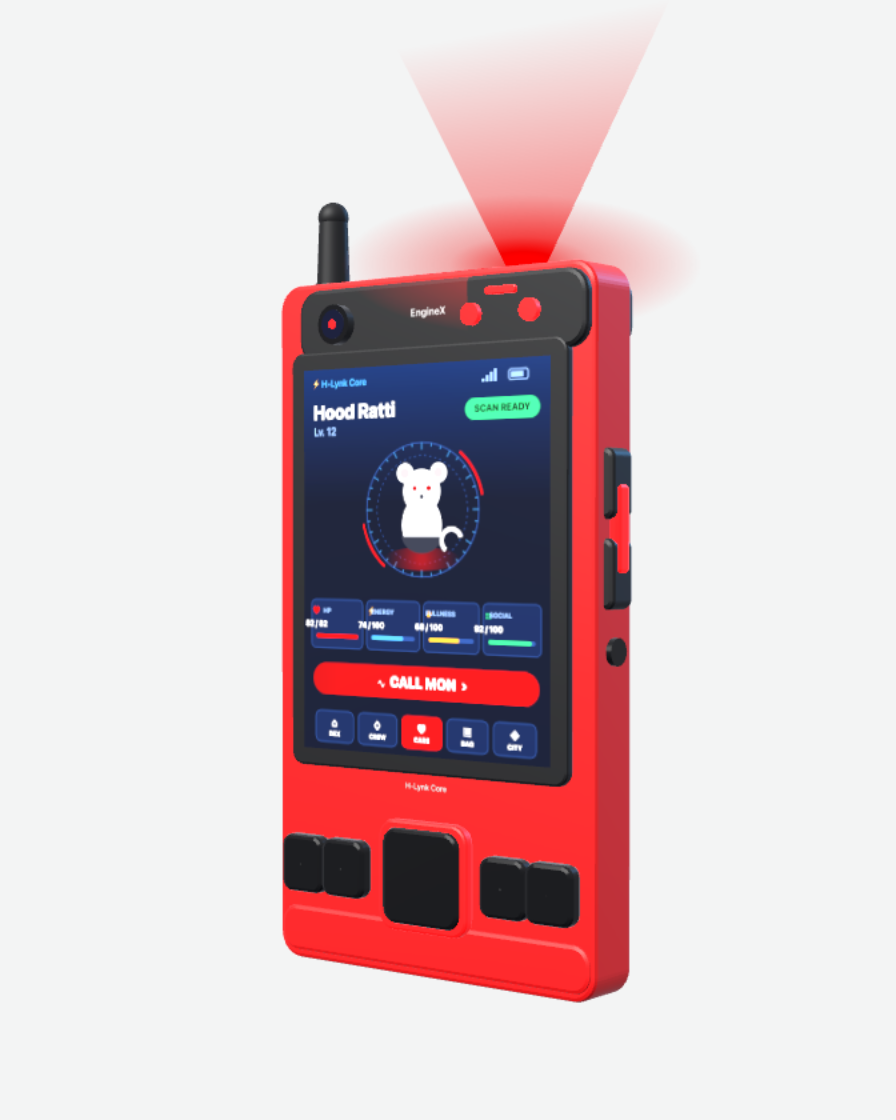
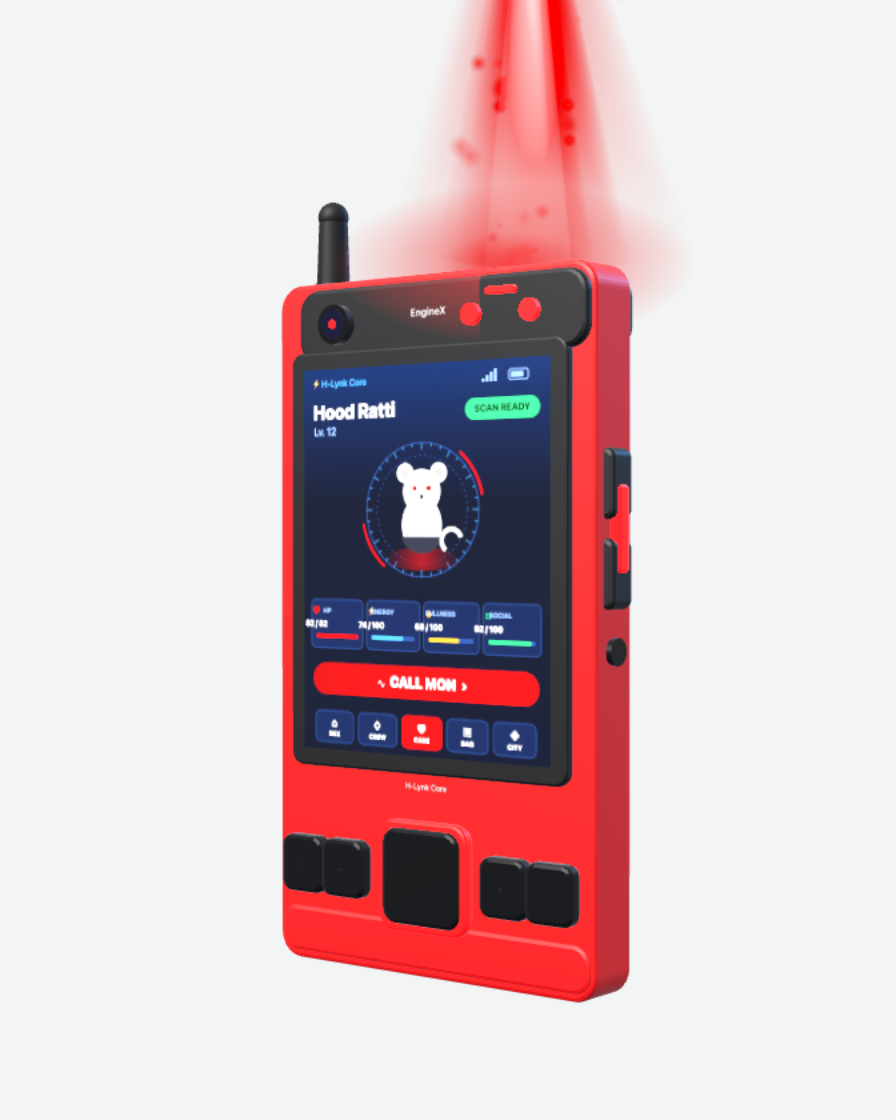
feat(web): volumetric scan beam on the H-Lynk stage
The fan becomes a real emission: three nested additive cones (wide
wash, mid beam, hot core) drawn as crossed planes for volume, a canvas
alpha-gradient driving the falloff (vertex alpha doesn't survive the
TSL material path), and 26 seeded sparks drifting up through the light.
The whole beam breathes on a slow pulse and freezes under reduced
motion. Static capture refreshed.

Generated with [Devin](https://devin.ai)

Changed region(s): [[0.4688, 0.0, 0.7188, 0.2812]]

diff --git a/apps/web/components/home/device-scene.ts b/apps/web/components/home/device-scene.ts
@@ -104,6 +104,7 @@ export function createDeviceScene({ THREE, renderer }: ThreeContext, initial: De
       tiltX += (goalX - tiltX) * k;
       tiltY += (goalY - tiltY) * k;
       device.rotation.set(tiltX, target + tiltY, 0);
+      if (!frame.reducedMotion) device.userData.beamTick?.(frame.time);
     },
     dispose: () => device.userData.dispose(),
   };
@@ -166,12 +167,7 @@ function buildDevice(THREE: Three): Group {
   const ring = mat(new THREE.MeshStandardMaterial({
     color: CORE.ring, emissive: CORE.ring, emissiveIntensity: 0.5, roughness: 0.4,
   }));
-  /** The fan fades as it rises: per-vertex alpha, normal blending so it
-   * reads red on a daylit page as well as a night one. */
-  const fan = mat(new THREE.MeshBasicMaterial({
-    color: led.on, vertexColors: true, transparent: true, depthWrite: false, side: THREE.DoubleSide,
-  }));
-  /** Additive glow at the fan's base. */
+  /** Additive glow at the beam's mouth. */
   const glow = mat(new THREE.SpriteMaterial({
     map: tex(radialGlowTexture(THREE)), color: led.on, transparent: true, depthWrite: false,
     blending: THREE.AdditiveBlending, opacity: 0.85,
@@ -252,26 +248,18 @@ function buildDevice(THREE: Three): Group {
   // Antenna base ring.
   box(track(new THREE.CylinderGeometry(0.05, 0.055, 0.03, 24)), pianoBlack, -0.4, top + 0.005, -0.01);
 
-  // The red fan of light the scanner projects upward, plus its base glow.
-  const fanShape = new THREE.Shape();
-  fanShape.moveTo(-0.05, 0);
-  fanShape.lineTo(0.05, 0);
-  fanShape.lineTo(0.42, 0.62);
-  fanShape.lineTo(-0.42, 0.62);
-  fanShape.closePath();
-  const fanGeometry = track(new THREE.ShapeGeometry(fanShape));
-  const fanPositions = fanGeometry.getAttribute('position');
-  const fanColors = new Float32Array(fanPositions.count * 4);
-  for (let i = 0; i < fanPositions.count; i++) {
-    fanColors.set([1, 1, 1, 0.5 * (1 - fanPositions.getY(i) / 0.62)], i * 4);
-  }
-  fanGeometry.setAttribute('color', new THREE.BufferAttribute(fanColors, 4));
-  const fanMesh = new THREE.Mesh(fanGeometry, fan);
-  fanMesh.position.set(0.25, top, 0);
-  group.add(fanMesh);
+  // The scan beam the head projects upward: layered cones with a hot core
+  // and rising sparks, the "a Mon is coming out" look. `beam.tick` pulses
+  // it each frame; under reduced motion it stays a steady fan.
+  const beam = buildBeam(THREE, { track, mat, tex });
+  beam.group.position.set(0.25, top, 0);
+  group.add(beam.group);
+  group.userData.beamTick = beam.tick;
+
+  // A hot glow right at the emitter mouth.
   const glowSprite = new THREE.Sprite(glow);
-  glowSprite.scale.set(0.9, 0.35, 1);
-  glowSprite.position.set(0.25, top + 0.02, 0.02);
+  glowSprite.scale.set(0.9, 0.4, 1);
+  glowSprite.position.set(0.25, top + 0.02, 0.05);
   group.add(glowSprite);
 
   // --- face ----------------------------------------------------------------
@@ -322,6 +310,126 @@ function buildDevice(THREE: Three): Group {
 
   group.position.y = -0.12;
   return group;
+}
+
+/**
+ * The scanner beam, built to read like a projection, not a decal: three
+ * nested cones (wide soft wash, mid beam, hot white-red core), each drawn
+ * twice as crossed planes so the cone has volume from any yaw, plus a
+ * column of sparks drifting up through the light. `tick` breathes the
+ * brightness and feeds the sparks.
+ */
+function buildBeam(
+  THREE: Three,
+  ctx: {
+    track: <G extends Geometry>(g: G) => G;
+    mat: <M extends Material>(m: M) => M;
+    tex: <T extends { dispose(): void }>(t: T) => T;
+  },
+): { group: Group; tick: (time: number) => void } {
+  const { track, mat, tex } = ctx;
+  const group = new THREE.Group();
+  const LENGTH = 0.85;
+
+  // Shared falloff: bright at the mouth, fading with height and toward
+  // the beam's edge. A texture, not vertex alpha — TSL materials need it.
+  const gradient = tex(beamGradientTexture(THREE));
+
+  /** One cone layer: a trapezoid with the gradient map, drawn as crossed planes. */
+  const cone = (halfBase: number, halfTop: number, color: string, peakAlpha: number) => {
+    const shape = new THREE.Shape();
+    shape.moveTo(-halfBase, 0);
+    shape.lineTo(halfBase, 0);
+    shape.lineTo(halfTop, LENGTH);
+    shape.lineTo(-halfTop, LENGTH);
+    shape.closePath();
+    const geo = track(new THREE.ShapeGeometry(shape));
+    // Normalise the UVs so the gradient spans the trapezoid edge to edge.
+    const pos = geo.getAttribute('position');
+    const uv = geo.getAttribute('uv');
+    for (let i = 0; i < pos.count; i++) {
+      const t = pos.getY(i) / LENGTH;
+      const half = halfBase + (halfTop - halfBase) * t;
+      uv.setXY(i, (pos.getX(i) / half + 1) / 2, t);
+    }
+    const material = mat(new THREE.MeshBasicMaterial({
+      color, map: gradient, transparent: true, opacity: peakAlpha,
+      depthWrite: false, side: THREE.DoubleSide, blending: THREE.AdditiveBlending,
+    }));
+    for (const yaw of [0, Math.PI / 2]) {
+      const mesh = new THREE.Mesh(geo, material);
+      mesh.rotation.y = yaw;
+      group.add(mesh);
+    }
+    return material;
+  };
+
+  // Wide wash → mid beam → hot core, back to front.
+  const wash = cone(0.5, 0.18, led.on, 0.45);
+  const mid = cone(0.32, 0.1, led.on, 0.75);
+  const core = cone(0.14, 0.045, '#FFD2D2', 0.95);
+
+  // Sparks: small additive sprites seeded inside the cone volume.
+  const sparkTex = tex(radialGlowTexture(THREE));
+  const sparkMat = mat(new THREE.SpriteMaterial({
+    map: sparkTex, color: '#FF9B9B', transparent: true, depthWrite: false,
+    blending: THREE.AdditiveBlending,
+  }));
+  const sparkMatHot = mat(new THREE.SpriteMaterial({
+    map: sparkTex, color: '#FFE8E8', transparent: true, depthWrite: false,
+    blending: THREE.AdditiveBlending,
+  }));
+  interface Spark { sprite: InstanceType<Three['Sprite']>; y0: number; speed: number; phase: number; spread: number; size: number }
+  const sparks: Spark[] = [];
+  const rand = mulberry(0xC0FFEE);
+  for (let i = 0; i < 26; i++) {
+    // Per-spark material: the tick fades each sprite independently.
+    const sprite = new THREE.Sprite(mat((i % 3 === 0 ? sparkMatHot : sparkMat).clone()));
+    const spark: Spark = {
+      sprite,
+      y0: rand(),
+      speed: 0.35 + rand() * 0.5,
+      phase: rand() * Math.PI * 2,
+      spread: 0.25 + rand() * 0.75,
+      size: 0.02 + rand() * 0.045,
+    };
+    sparks.push(spark);
+    group.add(sprite);
+  }
+
+  const tick = (time: number) => {
+    // The beam breathes — a slow pulse like a scanner cycling.
+    const pulse = 0.82 + 0.18 * Math.sin(time * 2.1);
+    wash.opacity = 0.45 * pulse;
+    mid.opacity = 0.75 * (0.75 + 0.25 * pulse);
+    core.opacity = 0.95 * (0.85 + 0.15 * Math.sin(time * 3.7 + 1));
+    for (const s of sparks) {
+      const t = (s.y0 + time * s.speed) % 1;
+      const y = t * LENGTH;
+      // Cone widens with height; sparks wander inside it and twinkle.
+      const r = (0.06 + (0.5 - 0.06) * t) * s.spread;
+      const a = s.phase + time * 0.8;
+      s.sprite.position.set(Math.cos(a) * r, y, Math.sin(a) * r * 0.6);
+      const fade = Math.sin(t * Math.PI);
+      const scale = s.size * (0.6 + 0.6 * fade);
+      s.sprite.scale.set(scale, scale, 1);
+      s.sprite.material.opacity = fade * (0.6 + 0.4 * Math.sin(time * 5 + s.phase));
+    }
+  };
+
+  return { group, tick };
+}
+
+/** Deterministic PRNG so the sparks are the same on every mount. */
+function mulberry(seed: number): () => number {
+  let a = seed >>> 0;
+  return () => {
+    a = (a + 0x6d2b79f5) >>> 0;
+    let t = a;
+    t = Math.imul(t ^ (t >>> 15), t | 1);
+    t ^= t + Math.imul(t ^ (t >>> 7), t | 61);
+    return ((t ^ (t >>> 14)) >>> 0) / 4294967296;
+  };
 }
 
 /**
@@ -377,6 +485,31 @@ function canvas2d(width: number, height: number): [HTMLCanvasElement, CanvasRend
   canvas.width = width;
   canvas.height = height;
   return [canvas, canvas.getContext('2d') as CanvasRenderingContext2D];
+}
+
+/**
+ * The beam's alpha falloff: opaque white at the mouth's centre, fading
+ * upward and toward the edges. RGB is white so the material's own colour
+ * carries the tint; alpha does the shaping.
+ */
+function beamGradientTexture(THREE: Three): CanvasTexture {
+  const [canvas, ctx] = canvas2d(128, 512);
+  const img = ctx.createImageData(128, 512);
+  for (let y = 0; y < 512; y++) {
+    const t = y / 511;
+    const vertical = Math.pow(1 - t, 1.4) + 0.08; // keeps a faint tip
+    for (let x = 0; x < 128; x++) {
+      const edge = Math.sin((x / 127) * Math.PI); // soft round cross-section
+      const a = Math.round(255 * vertical * Math.pow(edge, 0.8));
+      const i = (y * 128 + x) * 4;
+      img.data[i] = 255;
+      img.data[i + 1] = 255;
+      img.data[i + 2] = 255;
+      img.data[i + 3] = a;
+    }
+  }
+  ctx.putImageData(img, 0, 0);
+  return makeCanvasTexture(THREE, canvas);
 }
 
 /** Soft radial sprite used for the emitter glow. */
